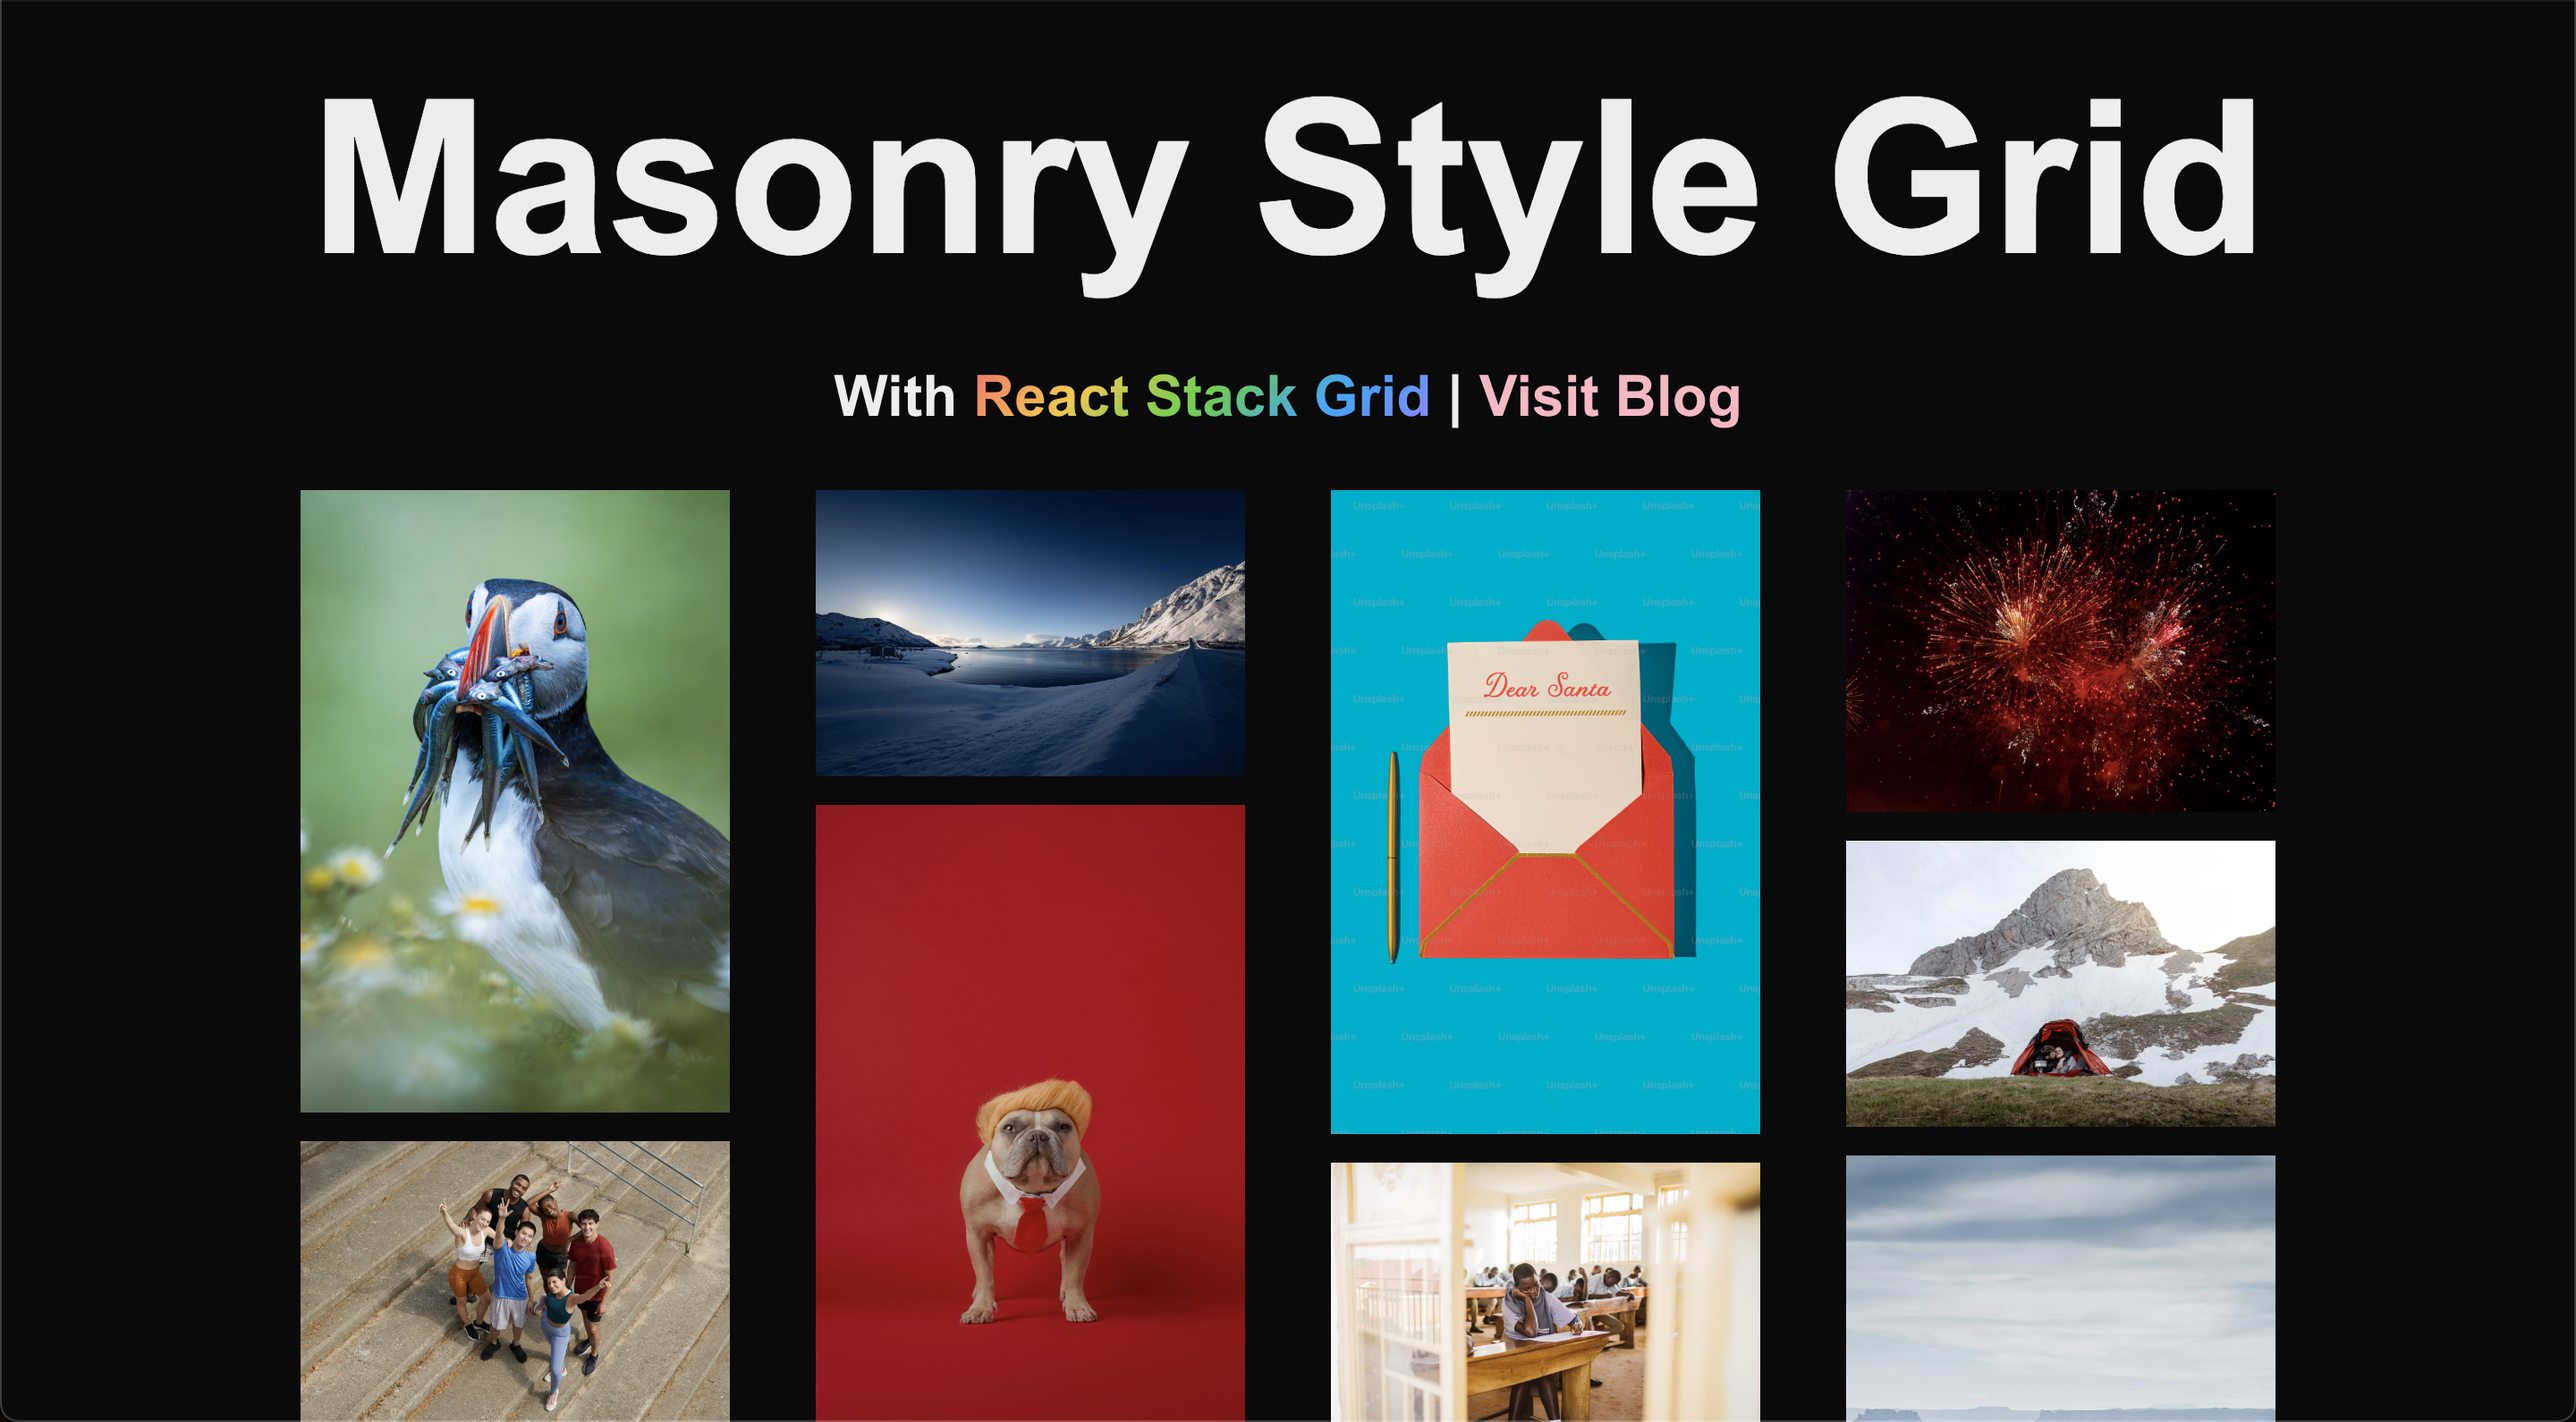
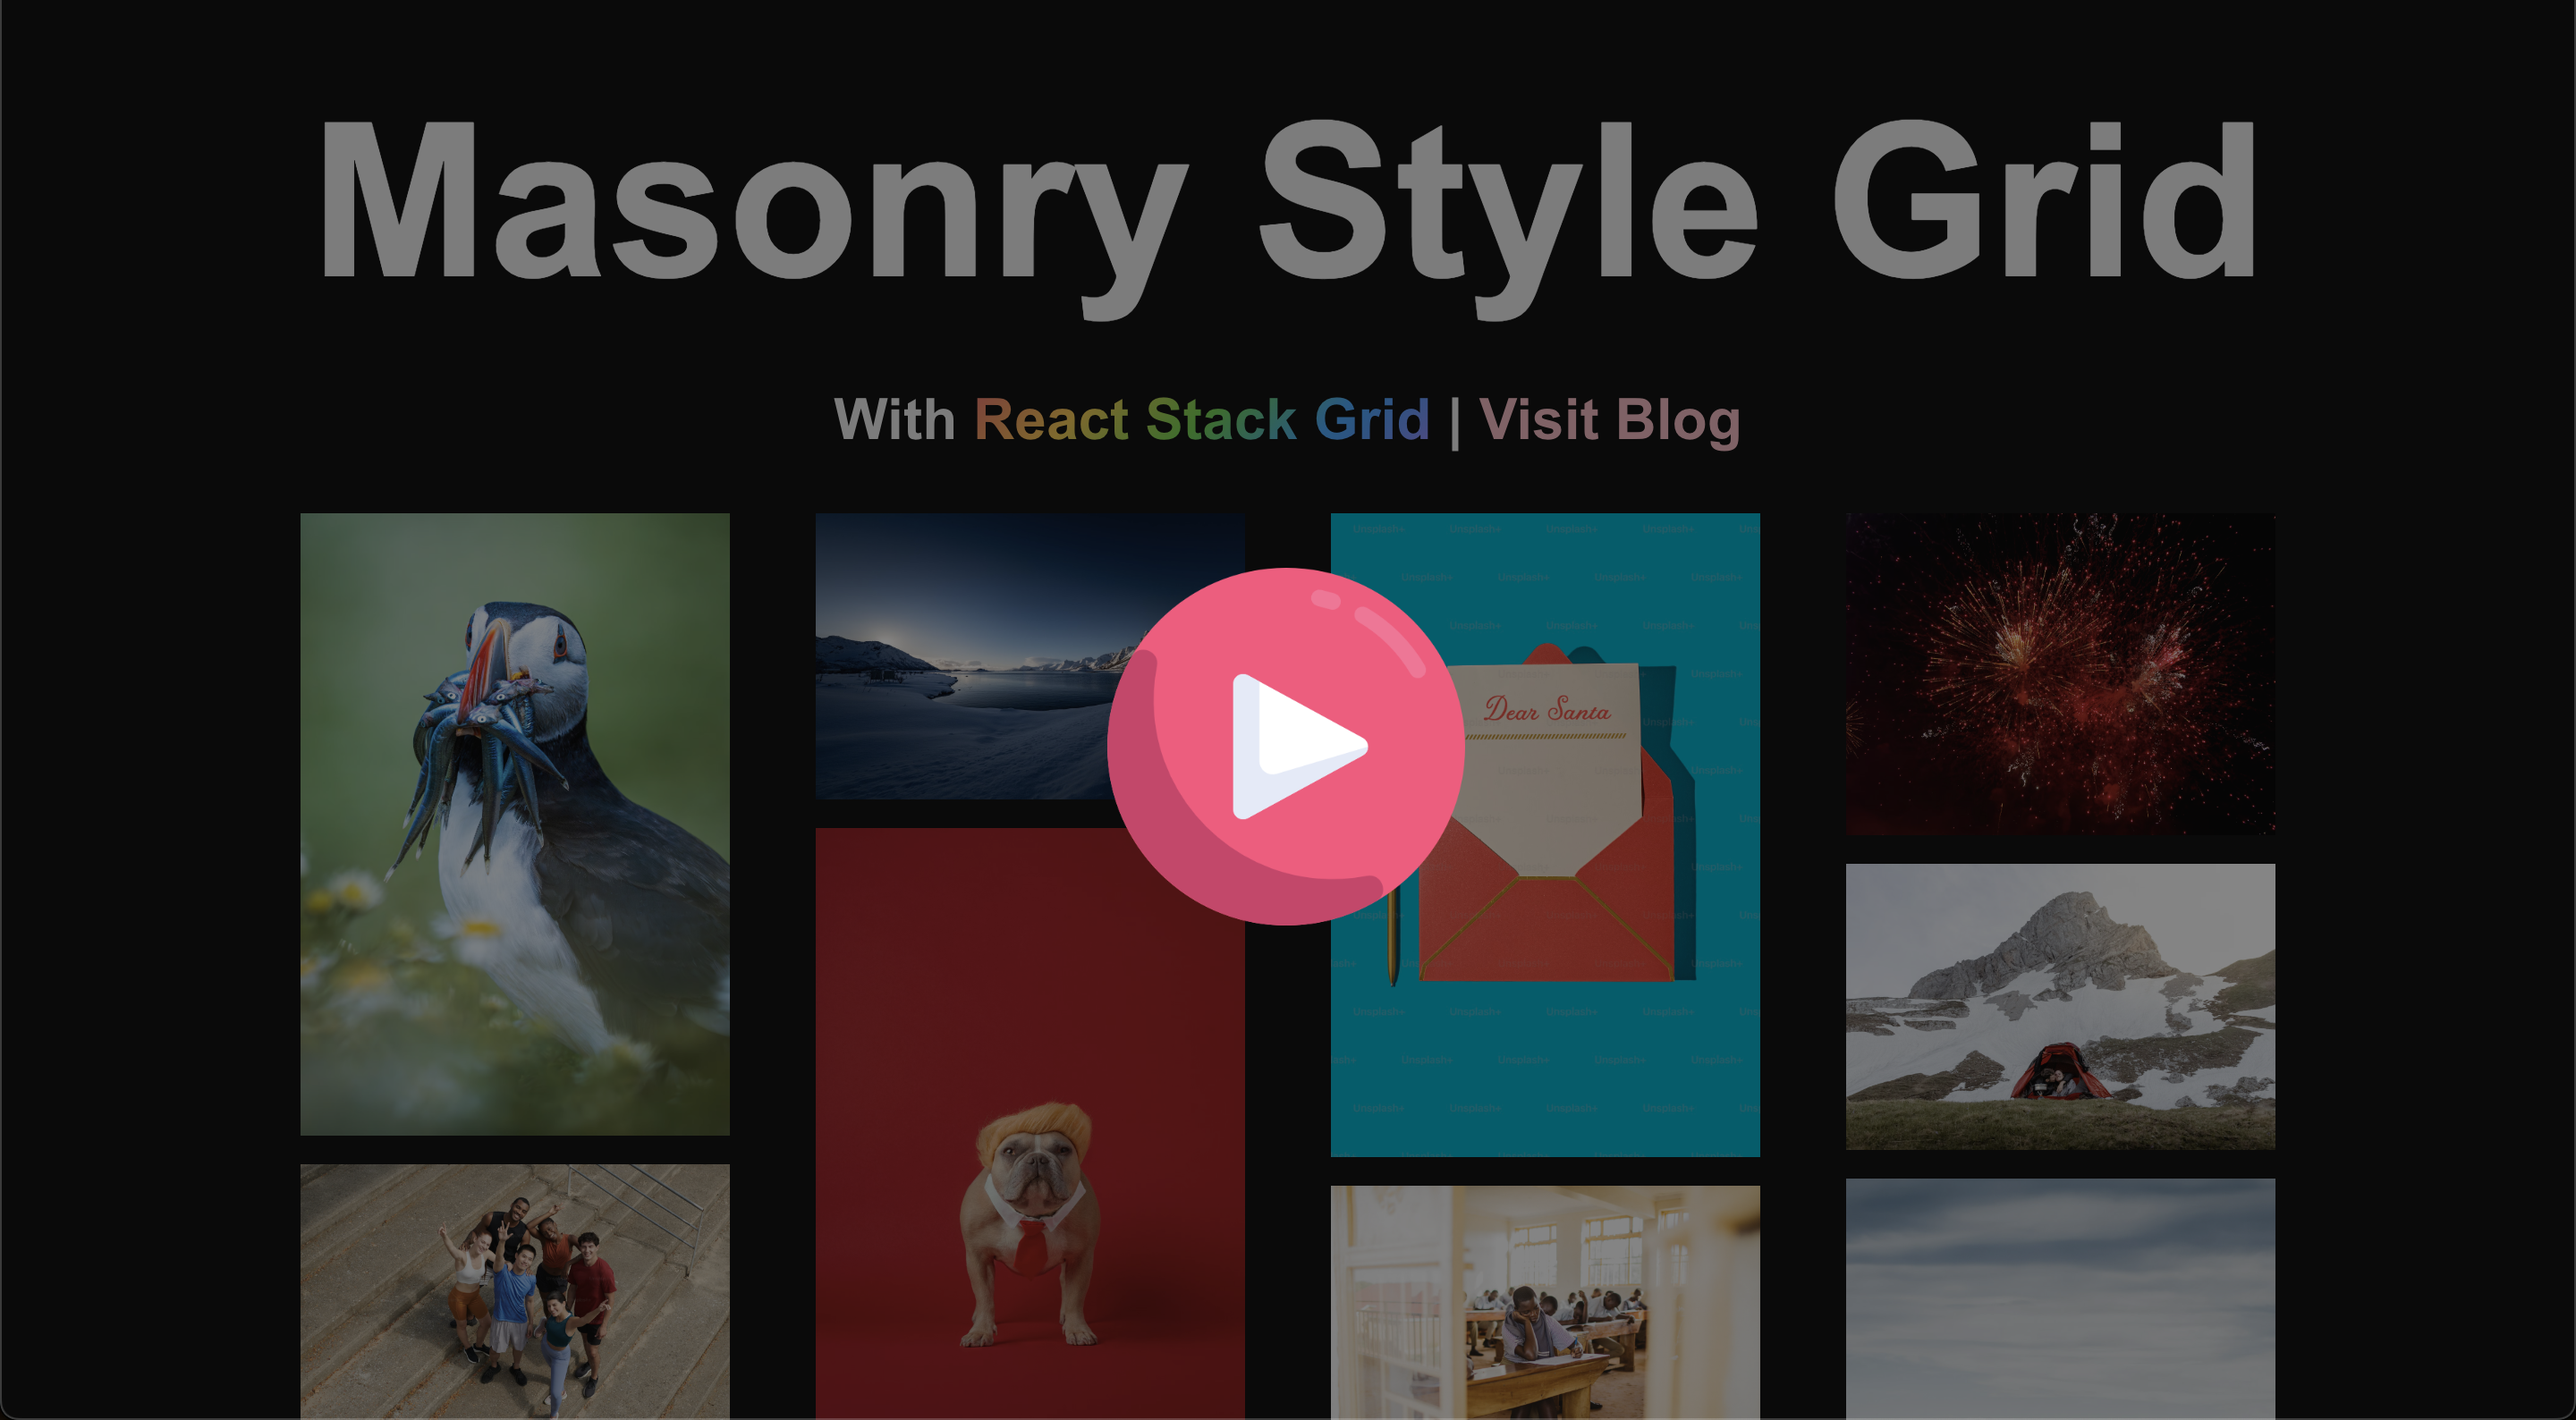
update screenshot

diff --git a/src/app/page.js b/src/app/page.js
@@ -3,69 +3,72 @@ import Link from "next/link";
 
 export default function Home() {
   return (
-    <div
-      style={{
-        padding: "10px",
-        display: "flex",
-        flexDirection: "column",
-        justifyContent: "center",
-      }}
-    >
+    <>
       <div
         style={{
-          width: "100%",
-          textAlign: "center",
-          marginTop: "34px",
-          marginBottom: "34px",
+          padding: "10px",
+          display: "flex",
+          flexDirection: "column",
           justifyContent: "center",
+          opacity: 0.5,
         }}
       >
-        <h1
+        <div
           style={{
-            fontSize: "120px",
+            width: "100%",
+            textAlign: "center",
+            marginTop: "34px",
+            marginBottom: "34px",
+            justifyContent: "center",
           }}
         >
-          Masonry Style Grid
-        </h1>
-        <div>
           <h1
             style={{
-              marginTop: "34px",
+              fontSize: "120px",
             }}
           >
-            With{" "}
-            <span
-              style={{
-                background:
-                  "linear-gradient(135deg, #ff6b6b, #fbc531, #4cd137, #00a8ff, #9c88ff)",
-                webkitBackgroundClip: "text",
-                backgroundClip: "text",
-                color: "transparent",
-              }}
-            >
-              React Stack Grid
-            </span>
-            &nbsp;|&nbsp;
-            <Link
-              style={{
-                color: "lightpink",
-              }}
-              href={"https://google.com"}
-            >
-              Visit Blog
-            </Link>
+            Masonry Style Grid
           </h1>
+          <div>
+            <h1
+              style={{
+                marginTop: "34px",
+              }}
+            >
+              With{" "}
+              <span
+                style={{
+                  background:
+                    "linear-gradient(135deg, #ff6b6b, #fbc531, #4cd137, #00a8ff, #9c88ff)",
+                  webkitBackgroundClip: "text",
+                  backgroundClip: "text",
+                  color: "transparent",
+                }}
+              >
+                React Stack Grid
+              </span>
+              &nbsp;|&nbsp;
+              <Link
+                style={{
+                  color: "lightpink",
+                }}
+                href={"https://google.com"}
+              >
+                Visit Blog
+              </Link>
+            </h1>
+          </div>
         </div>
-      </div>
-      <div
-        style={{
-          width: "80%",
-          alignSelf: "center",
-          justifyContent: "center",
-          alignItems: "center",
-        }}
-      >
-        <Gallery />
+        <div
+          style={{
+            width: "80%",
+            alignSelf: "center",
+            justifyContent: "center",
+            alignItems: "center",
+          }}
+        >
+          <Gallery />
+        </div>
       </div>
       <img
         style={{
@@ -76,8 +79,8 @@ export default function Home() {
         }}
         width={"200px"}
         height={"200px"}
-        src="https://as1.ftcdn.net/v2/jpg/00/80/56/28/1000_F_80562883_PAJJNiVcccBaPnU1ee1vNredJ5mJkYyz.jpg"
+        src="https://github.com/jaydeepw/example-react-stack-grid/blob/main/media/play.png?raw=true"
       />
-    </div>
+    </>
   );
 }
